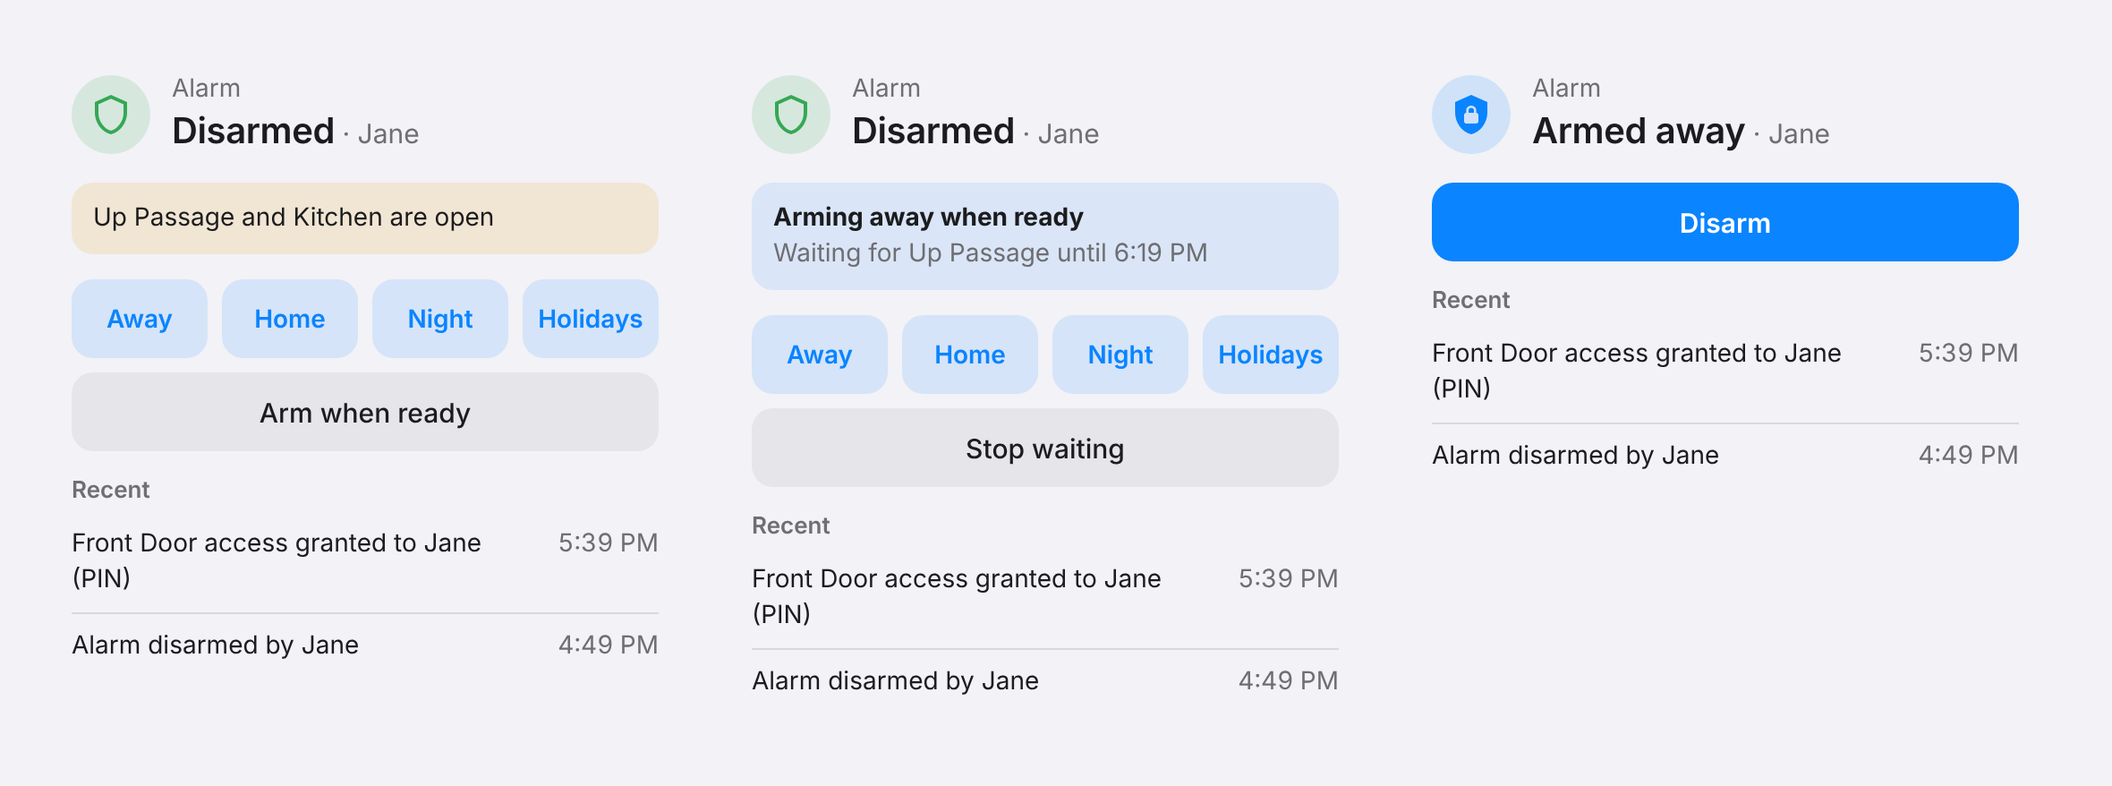
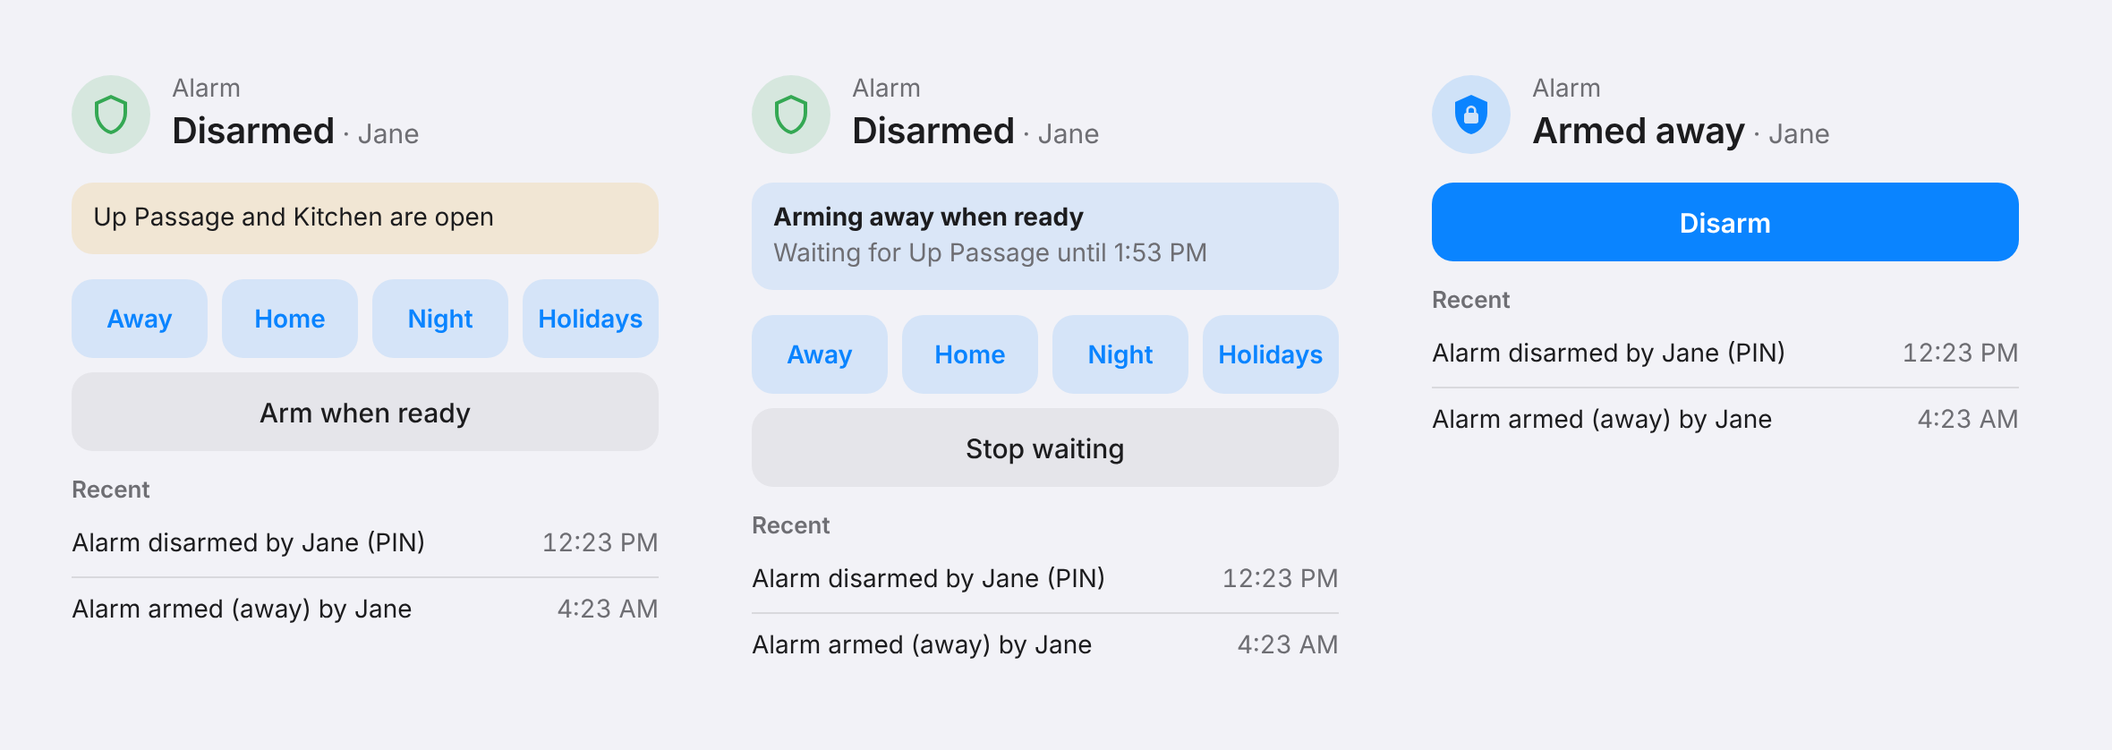
0.4.3: force-arm buttons respect the PIN rule; docs checked against the code
- Force arm buttons refuse when arming needs a PIN
- Card picker help link points at the card docs
- Docs corrected after a line-by-line audit; card screenshots show
  what Recent really lists
- Local ruff uses the same rules as CI (pyproject.toml)

diff --git a/custom_components/protege_wx/frontend/protege-alarm-card.js b/custom_components/protege_wx/frontend/protege-alarm-card.js
@@ -6,7 +6,7 @@
  *   # optional:
  *   name: House
  *   show_keypad: true      # when the alarm needs a code
- *   show_activity: true    # recent arming / disarming / doors
+ *   show_activity: true    # the area's recent events
  *   activity_count: 5
  *   show_arm_when_ready: true  # "Arm when ready" while zones are open
  *
@@ -15,7 +15,7 @@
  * device by itself. Ships with the integration; nothing to add to resources.
  */
 
-const VERSION = "0.4.1";
+const VERSION = "0.4.3";
 
 const FEATURE = { HOME: 1, AWAY: 2, NIGHT: 4, VACATION: 32 };
 
@@ -541,7 +541,7 @@ function defineCard() {
       type: "protege-alarm-card",
       name: "Protege WX alarm",
       description: "Arm, disarm, arm when ready, countdown, open zones and recent activity for a Protege WX area.",
-      documentationURL: "https://github.com/olliemaller/ha-protege-wx#alarm-card",
+      documentationURL: "https://github.com/olliemaller/ha-protege-wx/blob/main/docs/Alarm-card.md",
       preview: true,
     });
   }

diff --git a/tests/test_integration.py b/tests/test_integration.py
@@ -713,6 +713,28 @@ async def test_pin_guessing_is_limited(hass: HomeAssistant, controller) -> None:
     assert err.value.translation_key == "pin_locked_out"
 
 
+async def test_force_arm_buttons_follow_the_pin_rule(hass: HomeAssistant, controller) -> None:
+    """A button can't take a PIN, so it can't arm when arming needs one."""
+    entry = _entry(controller, users=[make_user("Alex", "1234")])
+    await _setup(hass, entry)
+    with pytest.raises(ServiceValidationError) as err:
+        await hass.services.async_call("button", "press", {"entity_id": "button.alarm_force_arm_away"}, blocking=True)
+    assert err.value.translation_key == "force_arm_needs_pin"
+    assert _state(hass, ALARM) == "disarmed"
+    # The action with a code still force-arms.
+    await hass.services.async_call(DOMAIN, "arm", {"entity_id": ALARM, "mode": "away", "force": True, "code": "1234"}, blocking=True)
+    assert _state(hass, ALARM) == "armed_away"
+    await hass.config_entries.async_unload(entry.entry_id)
+
+
+async def test_force_arm_button_without_pin_rule(hass: HomeAssistant, controller) -> None:
+    entry = _entry(controller, users=[make_user("Alex", "1234")], code_arm_required=False)
+    await _setup(hass, entry)
+    await hass.services.async_call("button", "press", {"entity_id": "button.alarm_force_arm_away"}, blocking=True)
+    assert _state(hass, ALARM) == "armed_away"
+    await hass.config_entries.async_unload(entry.entry_id)
+
+
 async def test_bypass_needs_pin_while_armed(hass: HomeAssistant, controller) -> None:
     entry = _entry(controller, users=[make_user("Alex", "1234")], code_arm_required=False)
     await _setup(hass, entry)

diff --git a/custom_components/protege_wx/alarm_control_panel.py b/custom_components/protege_wx/alarm_control_panel.py
@@ -345,8 +345,13 @@ class ProtegeArea(ProtegeEntity, AlarmControlPanelEntity, RestoreEntity):
         await self._arm(mode, force, code)
 
     async def async_force_arm(self, mode: str) -> None:
-        """Used by the force-arm buttons. Buttons can't carry a code, and arming
-        (never disarming) is what they do."""
+        """Used by the force-arm buttons. Buttons can't carry a code, so when
+        arming needs a PIN they refuse and point to the action instead."""
+        codes = self.coordinator.codes
+        if codes.enabled and codes.arm_requires_code:
+            raise ServiceValidationError(
+                translation_domain=DOMAIN, translation_key="force_arm_needs_pin"
+            )
         await self._arm_now(mode, True)
 
     async def async_sync_to(self, target: str) -> None:

diff --git a/docs/Features.md b/docs/Features.md
@@ -1,6 +1,8 @@
 # Features
 
-Each area, door and chosen output is its own device; inputs belong to the controller.
+Each area, door, input and chosen output is its own device under the controller. Trouble inputs and the *Last seen* sensors belong to the controller itself.
+
+Some entities start disabled, so they don't clutter your dashboards: everything for an area with no inputs (such as a "System" area), inputs that belong to no area, *Forced open* and *Left open* on doors without a door-position input, and *Memory used*. Turn them on under **Settings > Devices & services > Entities** if you want them.
 
 ## Areas
 
@@ -10,17 +12,17 @@ Each area, door and chosen output is its own device; inputs belong to the contro
   - During the exit delay it shows the mode being armed, so Apple Home shows Home and Away correctly. An option switches this to "Arming".
   - *Pending* during the entry delay. *Triggered* only while an alarm or siren is actually active, not just held in alarm memory.
 - **`changed_by`**: the keypad user, card or Home Assistant user, read from the controller's event log.
-- **Arm-failure feedback.** When the controller refuses to arm, from Home Assistant or a keypad, you get:
-  - an error naming the open zones;
-  - a `protege_wx_failed_to_arm` event;
-  - optionally, a notification.
+- **Arm-failure feedback.** When the controller refuses to arm, you get:
+  - an error naming the open zones (when the arm came from Home Assistant);
+  - a `protege_wx_failed_to_arm` event, from Home Assistant or a keypad;
+  - a notification (on by default; turn it off in the options).
 - **Ready to arm** sensors for away and for stay. Stay-type zones are ignored for stay. The open zones are listed as an attribute.
 - **Open zones** sensor: how many zones are open right now, with their names.
 - **Delay ends** sensor: when the exit or entry delay runs out, so dashboards can count down. Delays are read from the controller, or set in the options.
 - **Alarm cause** sensor: the zone that set the alarm off, kept until the area is disarmed.
 - **Arm when ready** switch and mode select. See [Arm when ready](Arm-when-ready.md).
 - **Walk test** switch: zones chime as you test them instead of setting off the alarm.
-- **Buttons:** Force arm away, Force arm night and Silence siren.
+- **Buttons:** Force arm away, Force arm night (when Night arms instantly) and Silence siren. When arming needs a PIN, the force-arm buttons refuse; use the [`protege_wx.arm`](Actions.md) action with `force: true` and a `code` instead.
 - **Events entity:** armed, arming started or cancelled, failed to arm, disarmed and alarm, each with who did it.
 
 ## Doors
@@ -29,7 +31,7 @@ Each area, door and chosen output is its own device; inputs belong to the contro
 - **Hold open** switch, which latches the door unlocked until switched off.
 - **Events entity:** access granted or denied (with the user and whether a card or PIN was used), unlocked, locked, opened, closed, forced open and left open.
 - **Visitor unlock**: a button and an action that hold the door unlocked for 15 minutes (or as long as you choose), then lock it. Locking it sooner cancels it, and it still locks after a restart.
-- **Forced open**, **Left open** and **Position** (open/closed) sensors, when the door has a door-position input.
+- **Position** (open/closed) sensor, when the door has a door-position input, and **Forced open** and **Left open** sensors (disabled by default on doors without one).
 - **Last seen** sensor per person who badges in: when, at which door, and card or PIN. Created the first time each person is seen.
 
 ## Inputs (zones)
@@ -37,19 +39,32 @@ Each area, door and chosen output is its own device; inputs belong to the contro
 - **Motion, door, window, smoke, moisture** and other types, chosen per input. A tamper or short reads as *on*, so a damaged sensor never looks quiet.
 - **Last triggered** sensor: when the zone last opened, kept across restarts.
 - **Tamper** sensor (diagnostic).
-- **Bypass** selector: not bypassed, until disarmed, or permanent.
+- **Bypass** selector: not bypassed, until disarmed, or permanent. With PINs set up, it only works while the zone's area is disarmed; use the [`protege_wx.bypass`](Actions.md) action with a `code` for an armed area.
 
 ## Controller
 
 - **Trouble inputs** such as mains failure, low battery, siren tamper and module offline.
 - **Alarm fault**: one sensor that turns on if anything needs attention.
-- **Supply voltage**, **Last event** and memory use.
+- **Supply voltage**, **Last event** and **Memory used** (diagnostic, disabled by default).
 - **Connection** sensor (diagnostic): Connected, Reconnecting, Backing off or Login failed, with the last successful update, protocol, response time and recent logins.
 - **Events** entity for the controller.
 
 ## Outputs
 
 Choose any outputs (PGMs) in the options. Each becomes its own device with a switch, and can be pulsed for a set time with [`protege_wx.pulse_output`](Actions.md).
+
+## Useful attributes
+
+For templates and automations:
+
+| Entity | Attributes |
+|---|---|
+| Alarm panel | `changed_by`, `controller_state`, `flags`, `alarms_in_memory`, `open_zones` |
+| Ready to arm, Open zones | `zones` / `open_zones`: the names of the open zones |
+| Delay ends | `phase` (exit or entry), `exit_delay`, `entry_delay` |
+| Lock | `held_open`, `visitor_until` |
+| Arm when ready switch | `mode`, `until`, `open_zones` |
+| Events entities | `event_type`, `user`, `by`, `method`, `subject`, `text` |
 
 ## Logbook
 

diff --git a/docs/Setup.md b/docs/Setup.md
@@ -19,7 +19,7 @@ In the Protege web interface, create an **operator** for Home Assistant, for exa
 
 Go to **Settings > Devices & services > Add integration > ICT Protege WX** and enter:
 
-- **Host:** the web interface address and port, for example `192.168.1.10:7377`. Pasting a full `http://…` address works too.
+- **Host:** the web interface address and port, for example `192.168.1.10:7377`. `http://` is optional. HTTPS isn't supported; see [Installation](Installation.md).
 - **Operator username and password.** The password is never sent to the controller; login is a challenge/response.
 
 Setup checks what the operator can see. If something's hidden (the event log, record details, doors), it tells you what that costs, so you can fix the role and re-check, or carry on.
@@ -31,16 +31,20 @@ Areas, doors, inputs, trouble inputs and outputs are discovered with their names
 **Settings > Devices & services > ICT Protege WX > Configure** has five sections:
 
 - **Settings:**
-  - update interval (default 1 s)
+  - update interval (1 to 30 s, default 1 s)
   - "Arming" display
-  - notifications for failed arms
-  - whether a PIN is needed to arm
+  - notifications for failed arms (on by default)
+  - whether a PIN is needed to arm (on by default; only applies once you add users)
   - outputs to add as switches
-  - visitor unlock time (default 15 minutes)
-  - how long [Arm when ready](Arm-when-ready.md) waits (default 30 minutes)
-- **Alarm areas:** per area, what Night arms as (instant, stay or off), and the exit and entry delays.
+  - visitor unlock time (1 to 240 minutes, default 15)
+  - how long [Arm when ready](Arm-when-ready.md) waits (1 to 240 minutes, default 30)
+- **Alarm areas:** per area, what Night arms as (instant, stay or off), and the exit and entry delays (0 to 600 s). Only areas with inputs are listed, and only the Night modes the controller allows. Delays the controller reports are filled in for you; otherwise the defaults are 60 s exit and 30 s entry.
 - **Input types:** motion, door, window, smoke and so on, per input.
-- **Users and PINs:** add, edit or remove users and choose whether each can arm and disarm. Only a salted hash of each PIN is stored. These users are separate from the controller's own keypad users.
+- **Users and PINs:** add, edit or remove users and choose whether each can arm and disarm. PINs are at least 4 digits and must be different for each user. Only a salted hash of each PIN is stored. After 5 wrong PINs in 5 minutes, every PIN is blocked for 5 minutes. These users are separate from the controller's own keypad users.
 - **Alarmo sync:** see [Apple Home and Alarmo](Apple-Home-and-Alarmo.md#alarmo).
+
+## Changing the address or login
+
+If the controller's address or the operator's password changes, open the integration's ⋮ menu and choose **Reconfigure**. If the password stops working, Home Assistant asks you to sign in again: look for **Re-authenticate** under **Settings > Devices & services**. Either way, your devices and entities are kept.
 
 Next: add the [Alarm card](Alarm-card.md) to a dashboard.

diff --git a/docs/Troubleshooting.md b/docs/Troubleshooting.md
@@ -2,13 +2,15 @@
 
 | Problem | Fix |
 |---|---|
-| **"Invalid authentication"** | Log in to the web interface with the same operator to check the details. Check the operator isn't disabled or locked out. |
+| **"The controller rejected the username or password"** | Log in to the web interface with the same operator to check the details. Check the operator isn't disabled. |
+| **"The operator is locked out for … seconds"** | Too many failed logins. Wait for the time shown, then try again. |
+| **"Too many wrong PINs"** | After 5 wrong PINs in 5 minutes, every PIN is blocked for 5 minutes. Wait, then try again. |
 | **"This integration talks to the web interface over plain HTTP"** | You entered an HTTPS address or port 443. Use the web interface's HTTP port (usually 7377). If your controller only offers HTTPS, use [ICT Protege](https://github.com/caboose014/ICT-Protege-Home-Assistant) instead. |
 | **Can't connect** | Check you can open `http://<host>:<port>` in a browser on the same network as Home Assistant. |
 | **Away won't arm, Home works** | A zone is open (for example someone moving in a room). Check *Ready to arm* or the error message, use [Arm when ready](Arm-when-ready.md), or **Force arm away**. |
 | **No "who did it"** | The operator needs permission to view the event log. Repairs will also tell you. |
 | **Arm when ready switch won't turn on** | Arming needs a PIN. Use the alarm card's button or the `protege_wx.arm_when_ready` action with a `code`. |
-| **Alarm card shows "Configuration error"** | Update to 0.3.1 or later, restart Home Assistant, then refresh the browser or app (in the Companion app: **Settings > Reset frontend cache**). |
+| **Alarm card shows "Configuration error"** | Update to the latest version, restart Home Assistant, then refresh the browser or app (in the Companion app: **Settings > Reset frontend cache**). |
 | **No triggers in the automation editor** | They need Home Assistant 2026.10 or later. On older versions, use the [event entities](Automations.md#event-entities). |
 | **No "Last seen" sensor for someone** | It's created the first time that person uses a card or PIN at a door after the integration is running. Entries read while Home Assistant was restarting don't count. |
 | **Something seems stuck** | Check the **Connection** sensor on the controller device: it shows whether the link is up, reconnecting or backing off to protect the controller. |

diff --git a/docs/Automations.md b/docs/Automations.md
@@ -35,7 +35,7 @@ actions:
       area_id: hallway
 ```
 
-The trigger variables include `user`, `method` (`card` or `pin`), `event_type`, `subject` (the door or area) and `text` (the controller's own line).
+The trigger variables include `user`, `by`, `method` (`card` or `pin`), `event_type`, `subject` (the door or area), `text` (the controller's own line), `entity_id`, `from_state` and `to_state`.
 
 ## Event entities
 
@@ -62,7 +62,7 @@ actions:
 
 | Event | When |
 |---|---|
-| `protege_wx_event` | Every meaningful event-log line: `kind`, `subject`, `type`, `by`, `user`, `method` |
+| `protege_wx_event` | Every meaningful event-log line: `kind`, `subject`, `type`, `by`, `mode`, `method`, `text`, `time` and `entry_id` |
 | `protege_wx_failed_to_arm` | An arm attempt fails. Includes `area` and the `zones` that stopped it |
 | `protege_wx_emergency` | A duress, panic or medical alarm: `type`, `area`, `by`, `text` |
 | `protege_wx_arm_when_ready` | An [Arm when ready](Arm-when-ready.md#results) wait finished |
@@ -73,9 +73,9 @@ actions:
 
 One automation that sends phone notifications, with buttons that act on them (needs the Companion app):
 
-- the entry delay starting, with **Disarm**, and the alarm going off, with **Disarm** (type your PIN in the notification) and **Silence**;
+- the entry delay starting, with **Disarm**, and the alarm going off, with **Disarm** and **Silence** (type your PIN in the notification to disarm);
 - duress, panic and medical alarms, as critical alerts;
-- a failed arm with the zones that stopped it, with **Retry when closed** and **Force arm**;
+- a failed arm with the zones that stopped it, with **Retry when closed** and **Force arm** (not offered after a failed Home arm);
 - a **bedtime reminder** when everyone's home and the alarm is off, with **Arm home**;
 - a door **left unlocked** for 10 minutes, with **Lock**;
 - a door forced or left open;

diff --git a/docs/Arm-when-ready.md b/docs/Arm-when-ready.md
@@ -5,7 +5,8 @@ Each area has an **Arm when ready** switch and an **Arm when ready mode** select
 - Turn the switch on and the area arms straight away if every zone is closed, or the moment the last one closes.
 - It turns itself off when the area arms, whoever arms it.
 - It gives up after the time limit in the options (30 minutes unless changed) and says which zones were still open.
-- Turn it off to stop waiting. A restart or reload also stops it (and says so), so the house never arms long after someone expected.
+- Turn it off to stop waiting. Reloading the integration also stops it (and says so), and so does restarting Home Assistant (without an event), so the house never arms long after someone expected.
+- It stops if the area goes into alarm while waiting.
 - It also waits while the panel itself isn't ready (for example a bypass error, or users still inside).
 - When arming needs a PIN, the switch won't turn on by itself: use the [alarm card](Alarm-card.md)'s **Arm when ready** button (it asks for the PIN) or the action below with a `code`.
 - The switch is a configuration entity, so voice assistants don't get it by default and turning on a whole area or device never arms the alarm.
@@ -31,7 +32,7 @@ Every result fires a `protege_wx_arm_when_ready` event (with `area`, `entity_id`
 |---|---|
 | `armed` | The area armed. `armed_elsewhere` is `true` if someone armed it another way first. |
 | `timed_out` | The time ran out. `open_zones` lists what was still open. |
-| `cancelled` | Turned off, or stopped by a restart or reload (`error` says which). |
+| `cancelled` | Turned off (`error` is empty), the area went into alarm, or the integration was reloaded (`error` says so). |
 | `failed` | The controller refused for a reason waiting won't fix, or a zone kept reopening three times in a row. `error` has the reason. |
 
 ```yaml

diff --git a/docs/Alarm-card.md b/docs/Alarm-card.md
@@ -18,7 +18,7 @@ entity: alarm_control_panel.alarm
 name: House
 show_keypad: true          # when a PIN is needed
 show_arm_when_ready: true  # "Arm when ready" while zones are open
-show_activity: true        # recent arming, disarming and doors
+show_activity: true        # the area's recent events
 activity_count: 5
 ```
 
@@ -31,10 +31,10 @@ activity_count: 5
 | **Modes** | Away, Home, Night and Holidays, only the ones the area allows. When armed, a single Disarm button. |
 | **Arm when ready** | Shown while zones are open. Asks for the PIN first when arming needs one. Changes to **Stop waiting** while it waits. |
 | **Keypad** | Shown when a PIN is needed. |
-| **Recent** | The last few arming, disarming and door events from the logbook. |
+| **Recent** | The area's last few events from the past 3 days: armed, arming, disarmed, failed to arm and alarm, with who did it. |
 
 It finds the area's open-zones, delay, alarm-cause and arm-when-ready entities by itself.
 
 ## If it shows "Configuration error"
 
-Update to 0.3.1 or later, restart Home Assistant, then refresh the browser or app (in the Companion app: **Settings > Reset frontend cache**).
+Update to the latest version, restart Home Assistant, then refresh the browser or app (in the Companion app: **Settings > Reset frontend cache**).

diff --git a/docs/How-it-protects-your-controller.md b/docs/How-it-protects-your-controller.md
@@ -13,6 +13,6 @@ A controller whose session table filled with abandoned sessions has been seen to
 - **One session.** It logs in once, keeps that session, and logs out on reload and shutdown.
 - **Gentle reconnects.** A dropped session is re-established once. If the controller refuses straight away, logins pause for 30 s, doubling up to 10 minutes, and never exceed 6 in 10 minutes.
 - **No operator lockouts.** A wrong password stops all login attempts after at most two tries and asks you to sign in again.
-- **Small, cheap polls.** Every second it reads area status, zone status and the newest event-log page. Doors, troubles and outputs are read when the log says they changed, and at least every 5 s. Health is read every minute.
+- **Small, cheap polls.** At the default 1 s interval, every second it reads area status, zone status and the newest event-log page. Doors, troubles and outputs are read when the log says they changed, and at least every 5 s. Health is read every minute.
 - **Honest states.** Unknown or unreadable states show as unavailable, never as a reassuring *disarmed*, *locked* or *closed*. An arm is reported as successful only after the controller confirms it.
 - **Local only.** It talks only to your controller over your own network. No cloud, and no extra Python packages.

diff --git a/docs/Actions.md b/docs/Actions.md
@@ -2,11 +2,11 @@
 
 | Action | Target | What it does |
 |---|---|---|
-| `protege_wx.arm` | alarm panel | Arm in `away`, `stay` or `instant` mode, optionally with `force` and a `code` |
+| `protege_wx.arm` | alarm panel | Arm in `away`, `stay` or `instant` mode, optionally with `force` and a `code`. `force` can't be used with `stay` |
 | `protege_wx.arm_when_ready` | alarm panel | Arm in `away`, `home` or `night` as soon as every zone is closed. Gives up after `minutes` (default from the options). Takes a `code` like arming does. See [Arm when ready](Arm-when-ready.md) |
 | `protege_wx.unlock_door` | lock | Timed unlock, or `hold_open: true` to latch |
 | `protege_wx.visitor_unlock` | lock | Hold unlocked for `minutes` (default from the options), then lock |
-| `protege_wx.bypass` | zone sensor | `none`, `temporary` (until disarmed) or `permanent` |
+| `protege_wx.bypass` | zone sensor | `none`, `temporary` (until disarmed) or `permanent`. With PINs set up, bypassing a zone in an armed area needs a `code` from a user who can disarm |
 | `protege_wx.pulse_output` | output switch | On for `seconds`, timed by the controller |
 
 The standard `alarm_control_panel.*` and `lock.*` actions work too.

diff --git a/CONTRIBUTING.md b/CONTRIBUTING.md
@@ -20,6 +20,9 @@ git clone https://github.com/olliemaller/ha-protege-wx
 cd ha-protege-wx
 python -m venv .venv && . .venv/bin/activate
 pip install pytest-homeassistant-custom-component ruff
+# the voice tests also need Assist's requirements:
+python -c "import json,pathlib,homeassistant as h; print('\\n'.join(json.loads((pathlib.Path(h.__file__).parent/'components/conversation/manifest.json').read_text())['requirements']))" > assist.txt
+pip install -r assist.txt
 pytest
 ruff check custom_components tests
 ```
@@ -38,7 +41,7 @@ This talks to people's real alarm systems, so a few rules are firm:
 
 ### Style
 
-- `ruff check` passes.
+- `ruff check custom_components tests` passes (the rules are in `pyproject.toml`, the same as the checks).
 - Support every Home Assistant version from the minimum in `hacs.json` to the current beta. Feature-detect newer APIs rather than requiring them.
 - User-facing text goes in `strings.json` and `translations/en.json`, in plain, short sentences.
 - Documentation is written in Australian English (*colour*, *licence*, *organise*).
